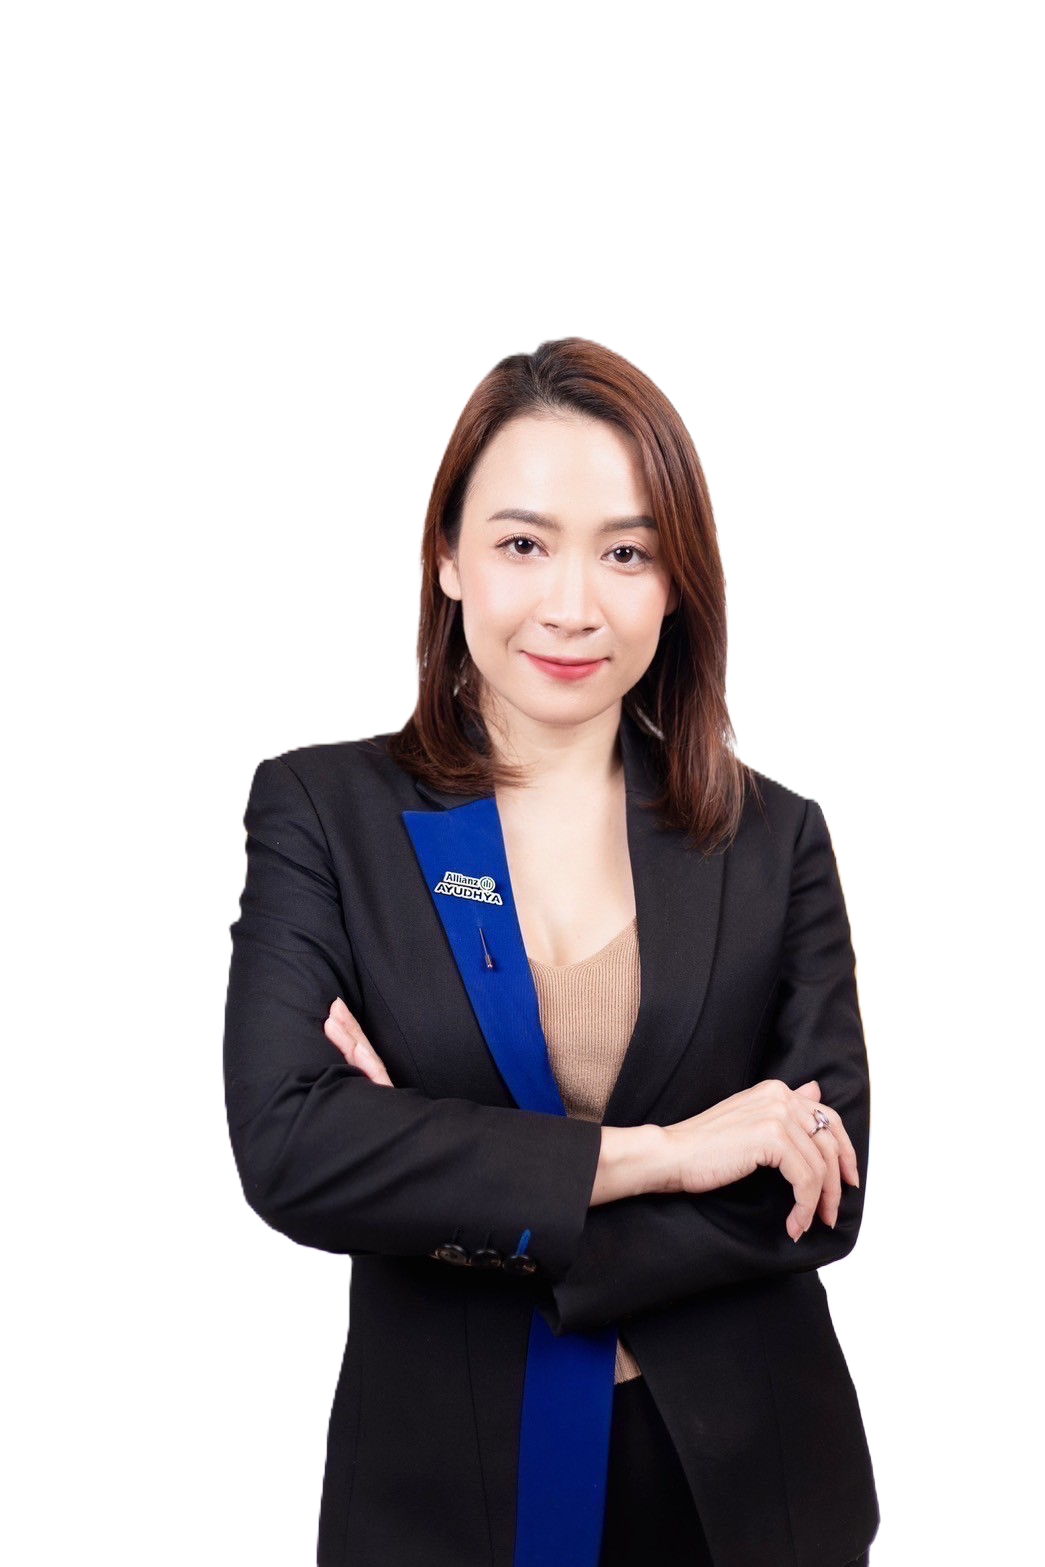
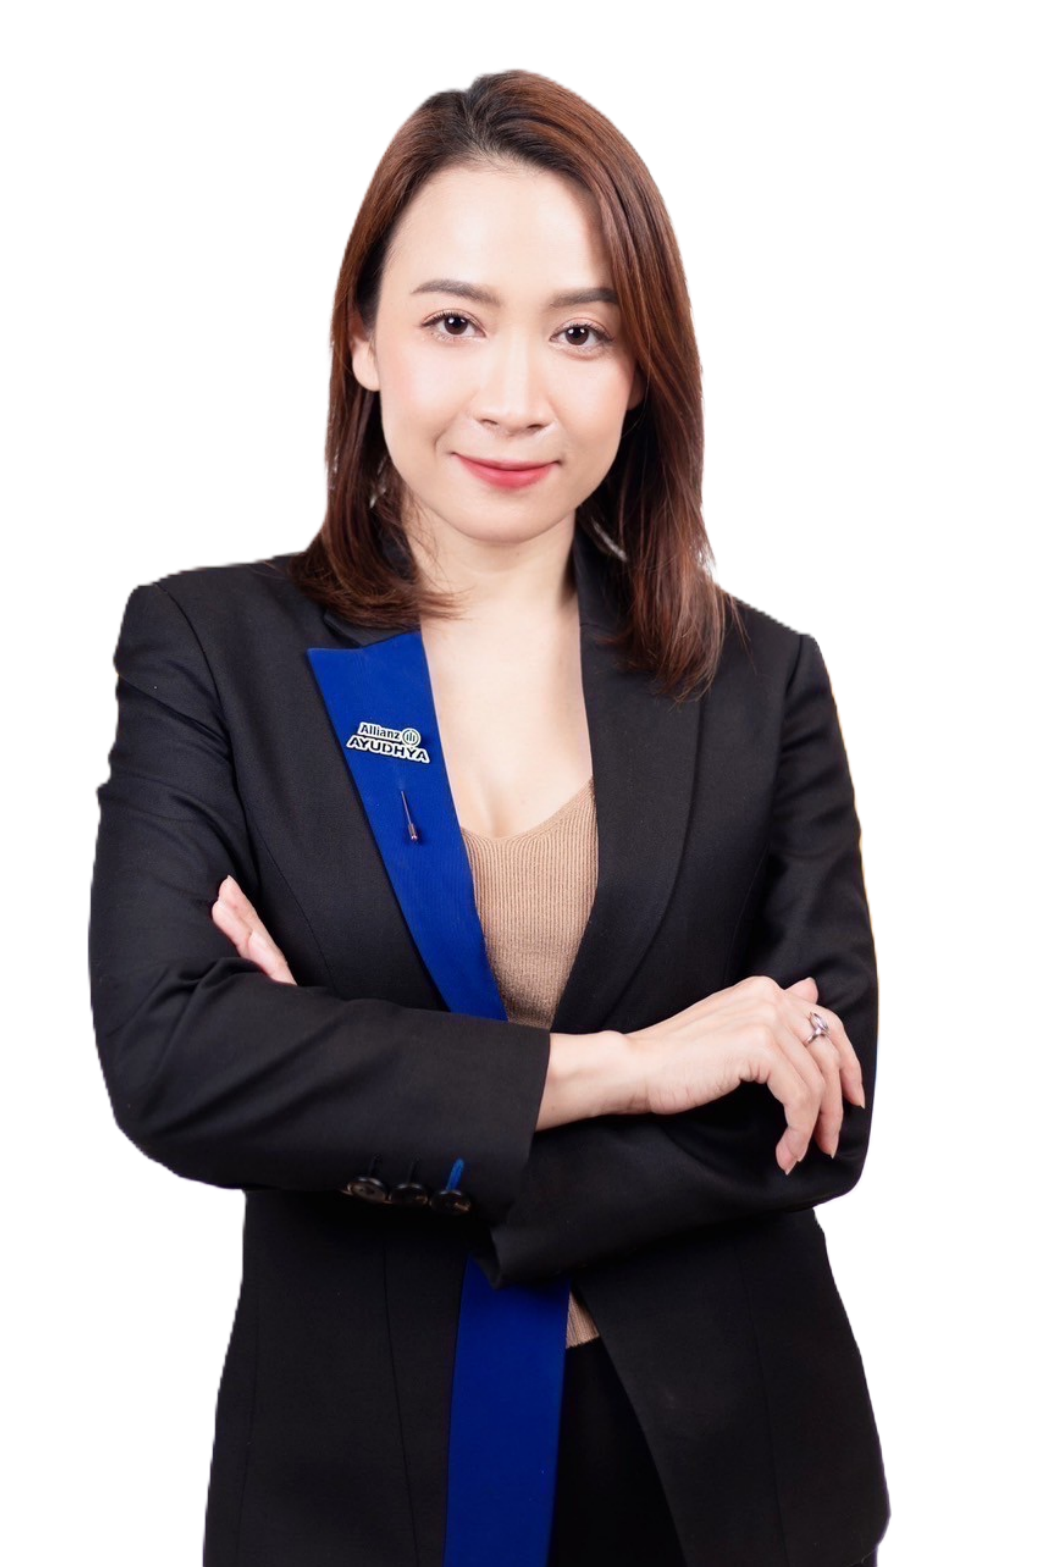
เเก้ไข

diff --git a/index.html b/index.html
@@ -97,7 +97,7 @@
 
   <div class="step1-container">
     <div class="top1-section">
-      <img class="person1-img" src="Sorce/New/NEW_3.5.png" alt="ภาพคน" />
+      <img class="person1-img" src="Sorce/New/NEW_3.3.png" alt="ภาพคน" />
       <div class="text1-box">
         <h2>สำนักงานตัวแทนประกันชีวิต</h2>
         <h1>คุณรัสรินทร์ บวรนะเกียรติ์</h1>
@@ -131,7 +131,7 @@
 
 .person1-img {
   position: absolute;
-  left: -220px;
+  left: 20px;
   top: 0;
   height: 100%;
   object-fit: contain;
@@ -185,12 +185,12 @@
 
   .top1-section {
   position: relative;
-  height: 250px;
+  height: 350px;
 }
 
 .person1-img {
   position: absolute;
-  left: -90px;
+  left: -30px;
   top: 0;
   height: 100%;
   object-fit: contain;
@@ -198,21 +198,21 @@
 
 .text1-box {
   position: absolute;
-  top: 90px;
-  left: 150px;
+  top: 150px;
+  left: 175px;
   max-width: 100%;
 }
 
 .text1-box h2 {
-  font-size: 15px;
+  font-size: 14px;
 }
 
 .text1-box h1 {
-  font-size: 20px;
+  font-size: 30px;
 }
 
 .text1-box h3 {
-  font-size: 15px;
+  font-size: 13px;
 }
  
 .bottom1-section {
